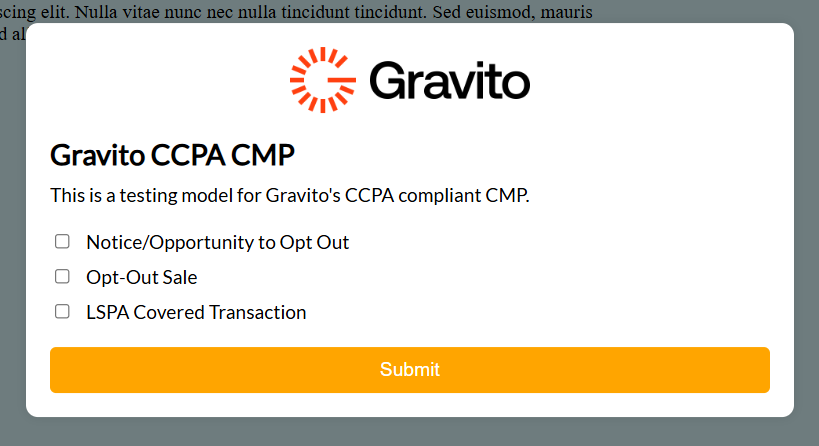
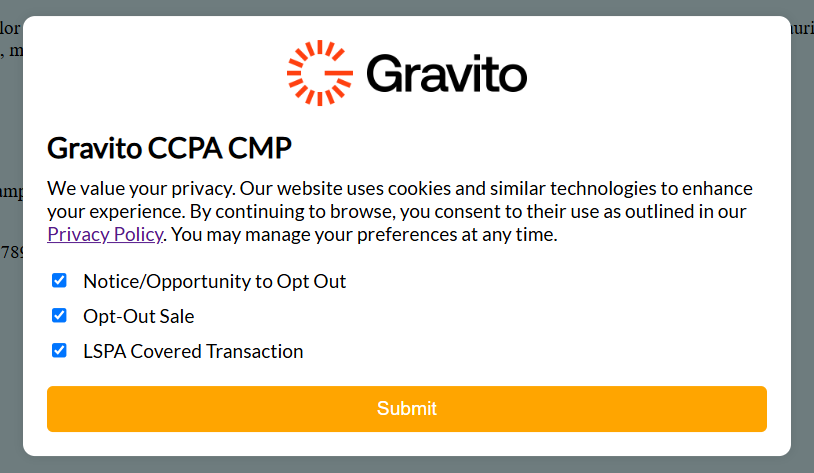
css class for ccpa

diff --git a/docs/Gravito_CCPA_CMP/Getting_Started.md b/docs/Gravito_CCPA_CMP/Getting_Started.md
@@ -104,15 +104,62 @@ Here you can find the configuration options for the Gravito CCPA CMP.
     </tr>
 </table>
 
+## CSS Customization
+
+CSS customization can be done by adding the custom CSS in the `style` section of the CMP config. The following are the CSS classes that can be used to customize the CMP.
+
+<table>
+    <tr>
+        <th>Class Name</th>
+        <th>Purpose</th>
+    </tr>
+    <tr>
+        <td>.gravitoCcpaCmp-card/td>
+        <td>to customize the CMP modal/card</td>
+    </tr>
+    <tr>
+        <td>.gravitoCcpaCmp-logo-container</td>
+        <td>to customize the CMP logo container</td>
+    </tr>
+    <tr>
+        <td>.gravitoCcpaCmp-logo</td>
+        <td>to customize the CMP logo image</td>
+    </tr>
+    <tr>
+        <td>.gravitoCcpaCmp-title</td>
+        <td>to customize the CMP title</td>
+    </tr>
+    <tr>
+        <td>.gravitoCcpaCmp-description</td>
+        <td>to customize the CMP description</td>
+    </tr>
+    <tr>
+        <td>.gravitoCcpaCmp-checkbox-container</td>
+        <td>to customize the consent container</td>
+    </tr>
+    <tr>
+        <td>.gravitoCcpaCmp-checkbox</td>
+        <td>to customize the checkbox styling</td>
+    </tr>
+    <tr>
+        <td>.gravitoCcpaCmp-row</td>
+        <td>to customize the checkbox label</td>
+    </tr>
+    <tr>
+        <td>.gravitoCcpaCmp-btn-container button</td>
+        <td>to customize the CMP action button</td>
+    </tr>
+</table>
+
 ## Example Configuration
 
 ```json
 {
   "title": "Gravito CCPA CMP",
-  "introductionText": "This is a testing model for Gravito's CCPA compliant CMP.",
+  "introductionText": "We value your privacy. Our website uses cookies and similar technologies to enhance your experience. By continuing to browse, you consent to their use as outlined in our <a href='' target='_blank'>Privacy Policy</a>. You may manage your preferences at any time.",
   "cookieName": "usprivacy",
   "cookieExpiry": 30,
-  "defaultUspString": "1NNN",
+  "defaultUspString": "1YYY",
   "consents": [
     {
       "name": "notice",
